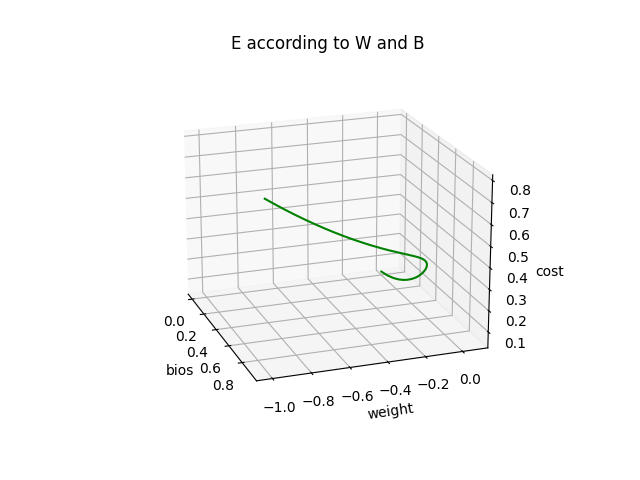
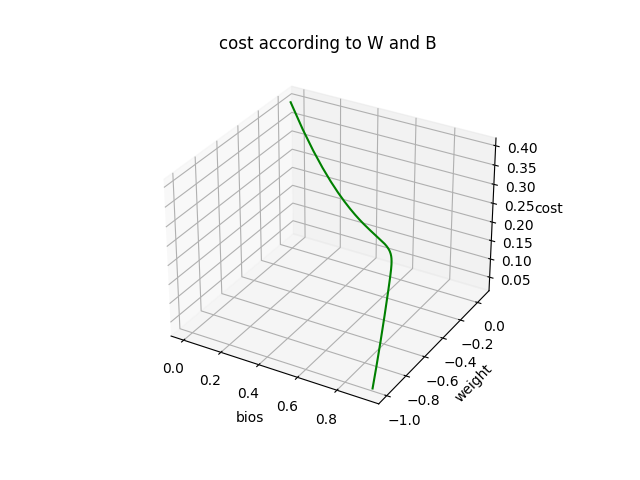
[FIX] fix calc_cost type convert bug

Changed region(s): [[0.25, 0.1875, 0.875, 0.9062], [0.3438, 0.0625, 0.6875, 0.125]]

diff --git a/trainer.py b/trainer.py
@@ -72,8 +72,8 @@ class Trainer:
     def __calc_cost(self) -> float:
         cost_sum = 0
         for element in self.__normalized_data:
-            mileage = int(element["mileage"])
-            price = int(element["price"])
+            mileage = float(element["mileage"])
+            price = float(element["price"])
             cost_sum += ((self.__get_estimate_price(mileage) - price) ** 2)
         return cost_sum / len(self.__normalized_data)
 
@@ -99,7 +99,7 @@ class Trainer:
     def __draw_cost_graph(self) -> None:
         plt.figure()
         ax = plt.axes(projection='3d')
-        ax.set_title('E according to W and B')
+        ax.set_title('cost according to W and B')
         ax.set_xlabel('bios')
         ax.set_ylabel('weight')
         ax.set_zlabel('cost')
